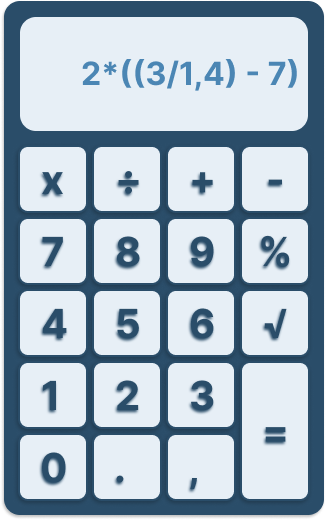
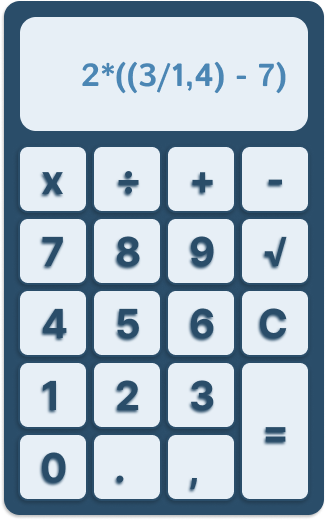
Continuação do desenvolvimento dos códigos da cálculadora em Java, inclusão do mapeamento das teclas.

Changed region(s): [[0.2454, 0.0923, 0.9202, 0.1846], [0.7669, 0.5846, 0.8896, 0.6769], [0.7975, 0.4308, 0.8896, 0.5231]]

diff --git a/01 - Calculadora/calculadora/src/application/Tela.java b/01 - Calculadora/calculadora/src/application/Tela.java
@@ -2,20 +2,20 @@ package application;
 
 import javafx.scene.Scene;
 import javafx.scene.control.Button;
-import javafx.scene.control.TextField;
+import javafx.scene.control.Label;
+import javafx.scene.input.KeyEvent;
 import javafx.scene.layout.GridPane;
-import javafx.stage.Stage;
 
 public class Tela {
 	
-	public Scene telaCalculadora(Stage tela) {
+	public Scene telaCalculadora() {
 		
 		GridPane grid = new GridPane();
 		Scene principal = new Scene(grid, 320, 514);
-		
+
 		
 		// Componentes da Tela
-		TextField txtDisplay = new TextField();
+		Label txtDisplay = new Label("Display");
 		grid.add(txtDisplay, 0, 0);
 		GridPane.setColumnSpan(txtDisplay, 4);
 		
@@ -63,7 +63,90 @@ public class Tela {
 		grid.add(btnPonto, 1, 5);
 		grid.add(btnVirgula, 2, 5);
 		
+		
+		// Ações dos botões da aplicação
+		principal.setOnKeyPressed((KeyEvent e) -> botoesFisicos(e));
+		
+		
+		
+//		if (e.getCode() == KeyCode.) {
+//			System.out.println("Botão igual apertado.");
+//		}
+
+		
+		btnIgual.setOnAction(
+				e -> btnApertado()
+		);
+		
+		
+		
 		return principal;
+		
+	}
+	
+	//Método para mapear o teclado físico
+	private void botoesFisicos(KeyEvent e) {
+		if (e.isShiftDown()) {
+			switch (e.getCode()) {
+				case DIGIT8:
+						System.out.println("Botão * apertado.");
+					break;
+				default:
+					System.out.println(e.getCode().getName());
+				break;
+			}
+			
+		} else {
+			switch (e.getCode()) {
+				case EQUALS:
+						System.out.println("Botão igual apertado.");
+					break;
+				case DIGIT0, NUMPAD0:
+						System.out.println("0");
+					break;
+				case DIGIT1, NUMPAD1:
+						System.out.println("1");
+					break;
+				case DIGIT2, NUMPAD2:
+						System.out.println("2");
+					break;
+				case DIGIT3, NUMPAD3:
+						System.out.println("3");
+					break;
+				case DIGIT4, NUMPAD4:
+						System.out.println("4");
+					break;
+				case DIGIT5, NUMPAD5:
+						System.out.println("5");
+					break;
+				case DIGIT6, NUMPAD6:
+						System.out.println("6");
+					break;
+				case DIGIT7, NUMPAD7:
+						System.out.println("7");
+					break;
+				case DIGIT8, NUMPAD8:
+						System.out.println("8");
+					break;
+				case DIGIT9, NUMPAD9:
+						System.out.println("9");
+					break;
+				case MINUS:
+						System.out.println("-");
+					break;
+				case UNDEFINED:
+						System.out.println("/");
+					break;
+				default:
+						System.out.println(e.getCode().getName());
+					break;
+				}
+		}
+	}
+	
+	
+	public void btnApertado() {
+		System.out.println("Botão igual apertado.");
 		
 	}
 }

diff --git a/01 - Calculadora/calculadora/src/application/Main.java b/01 - Calculadora/calculadora/src/application/Main.java
@@ -2,7 +2,6 @@ package application;
 	
 import javafx.application.Application;
 import javafx.stage.Stage;
-import javafx.stage.StageStyle;
 
 
 public class Main extends Application {
@@ -11,9 +10,10 @@ public class Main extends Application {
 	public void start(Stage stage) {
 		try {
 			Tela tela = new Tela();
-			stage.setScene(tela.telaCalculadora(stage));
+			stage.setScene(tela.telaCalculadora());
 			stage.setResizable(false); // Bloqueia o redimensionamento da tela
 			//stage.initStyle(StageStyle.UNDECORATED); // Também é possivel remove a barra do windows
+			
 			stage.show();
 		} catch(Exception e) {
 			e.printStackTrace();
